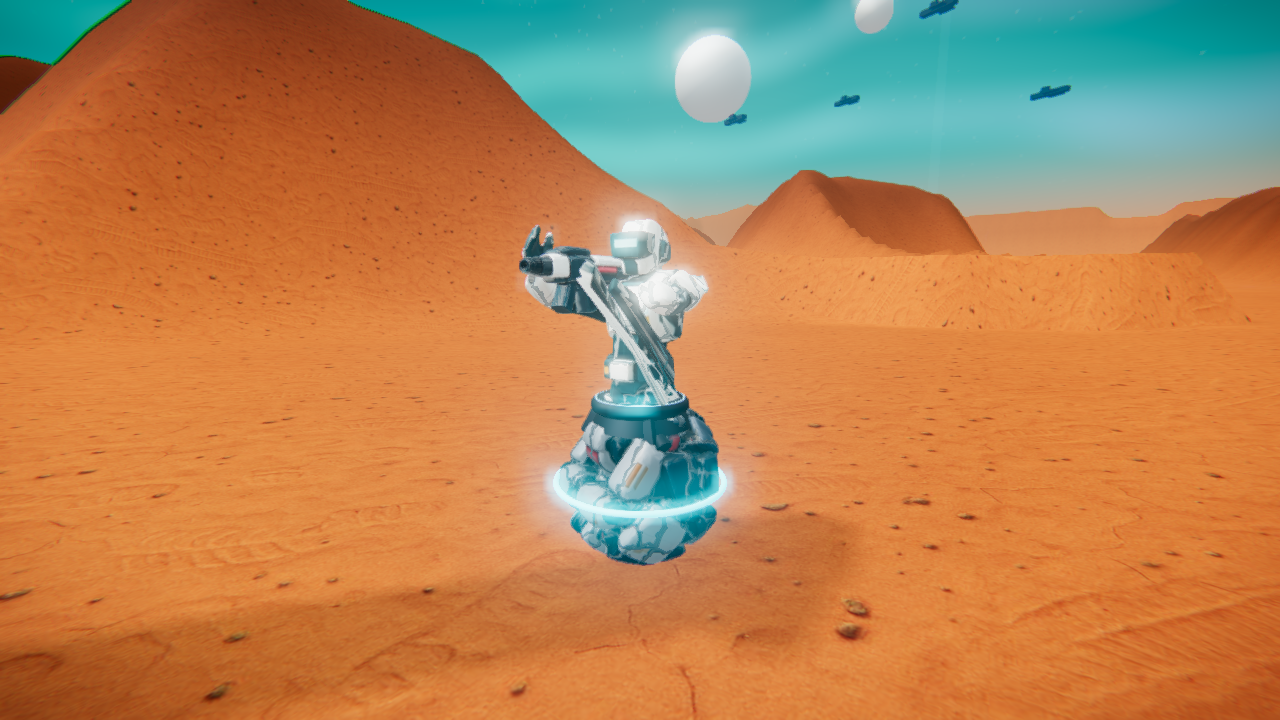
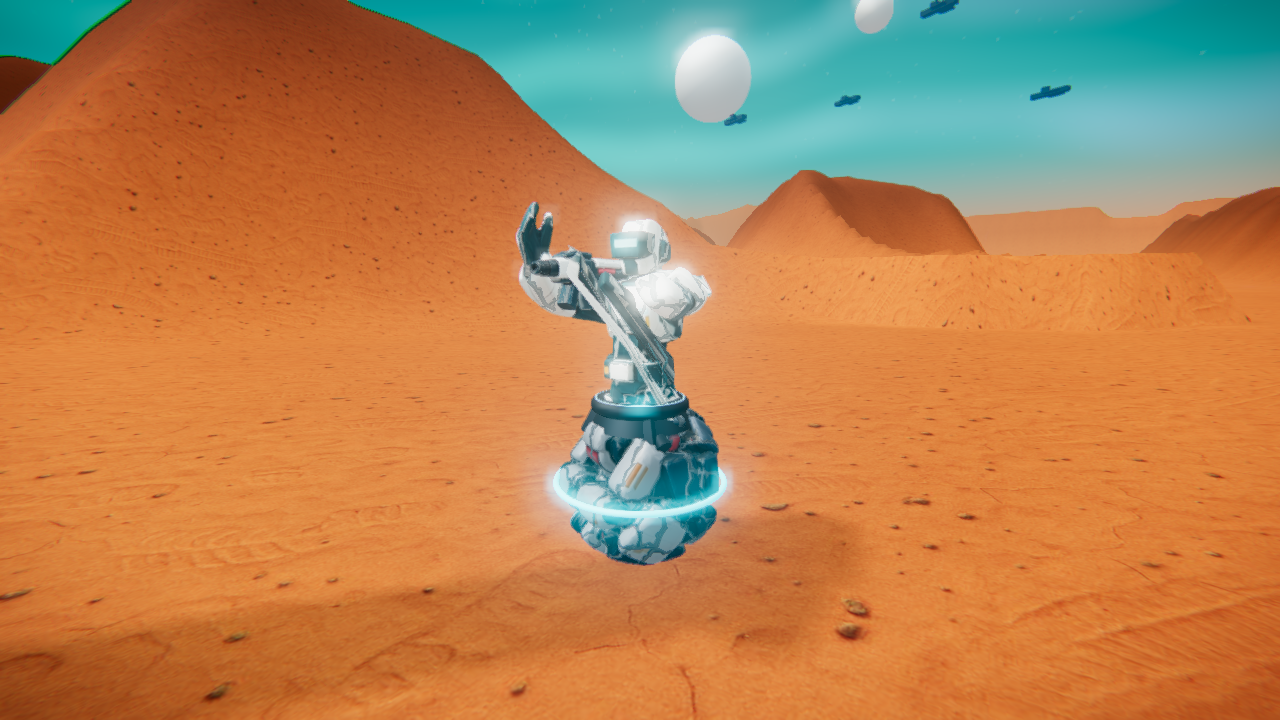
Critic round 2: softer curled aurora, Lantern light floor and plaza dressing, denser tower windows, terrain crevice shading and macro variation; character torso 1.3x, thicker arms, pistol-grip hand placement, squash in animator, dimmer emissives

Changed region(s): [[0.4062, 0.275, 0.5625, 0.55], [0.5, 0.6722, 0.5625, 0.7333], [0.4375, 0.55, 0.5, 0.5806]]

diff --git a/src/models/glbSoldier.js b/src/models/glbSoldier.js
@@ -92,9 +92,9 @@ function normaliseWeapon(geo, opts) {
   geo.computeVertexNormals(); geo.computeBoundingBox(); geo.computeBoundingSphere();
   // grips: lowest points of the mesh in two z-windows (pistol grip behind the magazine, foregrip under the handguard)
   const pos2 = geo.attributes.position; let gR = null, gL = null;
-  for (let i = 0; i < pos2.count; i++) { const z = pos2.getZ(i), y = pos2.getY(i), x = pos2.getX(i); if (Math.abs(x) > 0.05) continue; if (z > -0.12 && z < 0.12 && (!gR || y < gR.y)) gR = new THREE.Vector3(x, y, z); if (z > 0.22 && z < 0.5 && (!gL || y < gL.y)) gL = new THREE.Vector3(x, y, z); }
-  const gripR = gR ? new THREE.Vector3(0.02, gR.y + 0.07, gR.z + 0.01) : new THREE.Vector3(0.02, -0.02, 0.04);
-  const gripL = gL ? new THREE.Vector3(-0.02, gL.y + 0.05, gL.z) : new THREE.Vector3(-0.02, 0.0, 0.34);
+  for (let i = 0; i < pos2.count; i++) { const z = pos2.getZ(i), y = pos2.getY(i), x = pos2.getX(i); if (Math.abs(x) > 0.05) continue; if (z > -0.2 && z < 0.02 && (!gR || y < gR.y)) gR = new THREE.Vector3(x, y, z); if (z > 0.24 && z < 0.5 && (!gL || y < gL.y)) gL = new THREE.Vector3(x, y, z); }
+  const gripR = new THREE.Vector3(0.02, gR ? THREE.MathUtils.clamp(gR.y + 0.08, -0.13, -0.01) : -0.02, gR ? THREE.MathUtils.clamp(gR.z + 0.02, -0.08, 0.06) : 0.04);
+  const gripL = new THREE.Vector3(-0.02, gL ? THREE.MathUtils.clamp(gL.y + 0.05, -0.06, 0.05) : 0.0, gL ? gL.z : 0.34);
   return { geometry: geo, length: b3.max.z - b3.min.z, muzzle: new THREE.Vector3(0, 0.055, geo.boundingBox.max.z - 0.01), gripR, gripL };
 }
 
@@ -316,7 +316,7 @@ export function attachBall(model, radius = 0.44) {
   else { mesh = new THREE.Mesh(new THREE.SphereGeometry(radius, 24, 16), new THREE.MeshStandardMaterial({ color: '#c8c8cc', roughness: 0.45, metalness: 0.35 })); }
   mesh.castShadow = true; g.add(mesh);
   // neon equator ring so the roll reads clearly
-  const ring = new THREE.Mesh(new THREE.TorusGeometry(radius * 0.98, 0.018, 8, 48), new THREE.MeshStandardMaterial({ color: '#00e5ff', emissive: '#00e5ff', emissiveIntensity: 0.8, roughness: 0.3 }));
+  const ring = new THREE.Mesh(new THREE.TorusGeometry(radius * 0.98, 0.018, 8, 48), new THREE.MeshStandardMaterial({ color: '#00e5ff', emissive: '#00e5ff', emissiveIntensity: 0.5, roughness: 0.3 }));
   ring.rotation.x = Math.PI / 2; g.add(ring);
 
   // waist collar at the top of the ball (does not roll): matte ring, four short struts, thin emissive lip, two vents
@@ -325,7 +325,7 @@ export function attachBall(model, radius = 0.44) {
   const ringM = new THREE.Mesh(new THREE.TorusGeometry(radius * 0.48, 0.045, 10, 40), matte); ringM.rotation.x = Math.PI / 2; ringM.position.y = radius * 0.9; collar.add(ringM);
   const cup = new THREE.Mesh(new THREE.CylinderGeometry(radius * 0.46, radius * 0.6, 0.14, 24, 1, true), new THREE.MeshStandardMaterial({ color: '#2c3038', roughness: 0.55, metalness: 0.7, side: THREE.DoubleSide })); cup.position.y = radius * 0.8; collar.add(cup);
   for (let i = 0; i < 4; i++) { const a = (i / 4) * Math.PI * 2 + Math.PI / 4; const strut = new THREE.Mesh(new THREE.BoxGeometry(0.06, 0.16, 0.06), matte); strut.position.set(Math.cos(a) * radius * 0.54, radius * 0.72, Math.sin(a) * radius * 0.54); strut.rotation.z = Math.cos(a) * 0.5; strut.rotation.x = -Math.sin(a) * 0.5; collar.add(strut); }
-  const lip = new THREE.Mesh(new THREE.TorusGeometry(radius * 0.5, 0.014, 8, 40), new THREE.MeshStandardMaterial({ color: '#00e5ff', emissive: '#00e5ff', emissiveIntensity: 1.0 })); lip.rotation.x = Math.PI / 2; lip.position.y = radius * 0.96; collar.add(lip);
+  const lip = new THREE.Mesh(new THREE.TorusGeometry(radius * 0.5, 0.014, 8, 40), new THREE.MeshStandardMaterial({ color: '#00e5ff', emissive: '#00e5ff', emissiveIntensity: 0.6 })); lip.rotation.x = Math.PI / 2; lip.position.y = radius * 0.96; collar.add(lip);
   for (let i = 0; i < 2; i++) { const a = i * Math.PI + 0.6; const vent = new THREE.Mesh(new THREE.CylinderGeometry(0.035, 0.045, 0.07, 8), matte); vent.position.set(Math.cos(a) * radius * 0.62, radius * 0.6, Math.sin(a) * radius * 0.62); vent.rotation.z = Math.cos(a) * 1.0; vent.rotation.x = -Math.sin(a) * 1.0; collar.add(vent); }
   const roll = new THREE.Group(); roll.add(g); roll.position.y = radius;
   const holder = new THREE.Group(); holder.name = 'ballRig'; holder.add(roll); collar.position.y = radius; holder.add(collar);
@@ -347,6 +347,7 @@ export function applyCustomBody(model, custom, opts = {}) {
     const r = opts.ballRadius || 0.58; const cut = custom.waistCut ?? (custom.fit.crotchY + 0.16); model.ballRootY = (custom.fit.crotchY + 0.04) + (r * 2 - 0.05 - cut); model.bones.root.position.y = model.ballRootY; model.root.updateWorldMatrix(true, true);
     attachBall(model, r);
     if (opts.torsoScale && opts.torsoScale !== 1) { const k = opts.torsoScale; model.bones.root.scale.setScalar(k); model.torsoScale = k; }
+    for (const n of ['upperArmL', 'upperArmR']) model.bones[n].scale.set(1.28, 1, 1.28); // thicker limbs (children inherit)
   } else skinned = skinToRig(custom, model.bones, model.root);
   if (opts.neon || opts.tint) { const key = 'mat:' + (opts.neon || '') + ':' + (opts.tint || ''); custom._mats = custom._mats || {}; if (!custom._mats[key]) { const m = custom.material.clone(); if (opts.tint) m.color.set(opts.tint); if (opts.neon) makeNeonMask(m, opts.neon); custom._mats[key] = m; } skinned.material = custom._mats[key]; }
   for (const m of model.meshes) m.visible = false;
@@ -379,7 +380,7 @@ export function makeNeonMask(material, color) {
   }
   ctx.putImageData(id, 0, 0);
   const em = new THREE.CanvasTexture(cv); em.colorSpace = THREE.SRGBColorSpace; em.flipY = tex.flipY; em.wrapS = tex.wrapS; em.wrapT = tex.wrapT;
-  material.emissiveMap = em; material.emissive = new THREE.Color('#ffffff'); material.emissiveIntensity = 0.9; material.needsUpdate = true;
+  material.emissiveMap = em; material.emissive = new THREE.Color('#ffffff'); material.emissiveIntensity = 0.7; material.needsUpdate = true;
 }
 
 /** Roll a ball-mounted body: spin the sphere with ground velocity, squash it on landing. */
@@ -391,6 +392,6 @@ export function rollBall(model, vx, vz, dt, land = 0, rootYaw = 0, crouch = 0) {
     const c = Math.cos(-rootYaw), s = Math.sin(-rootYaw); const lx = ax * c + az * s, lz = -ax * s + az * c; // into root-local space
     _axis.set(lx, 0, lz).normalize(); _q.setFromAxisAngle(_axis, sp * dt / model.ballRadius); model.ball.quaternion.premultiply(_q);
   }
-  const sq = land * 0.14 + crouch * 0.12; model.ball.scale.set(1 + sq * 0.55, 1 - sq, 1 + sq * 0.55); if (model.ballRig) model.ballRig.position.y = -sq * model.ballRadius * 0.9;
+  void land; void crouch;
 }
 const _axis = new THREE.Vector3(), _q = new THREE.Quaternion();

diff --git a/src/entities/animator.js b/src/entities/animator.js
@@ -222,7 +222,7 @@ export class CharacterAnimator {
     const sway = Math.sin(this.breath * 0.6) * 0.012 * (1 - this.speed); // idle weight shift
     const fz = -this.mdz; // body-space forward is -z
     const ballLean = this.model?.ballRadius ? 2.2 : 1;
-    const fwdLean = -this.speed * (s.sprint > 0.8 ? 0.10 : 0.05) * ballLean * Math.max(0, fz) + this.speed * 0.05 * Math.max(0, -fz) - this.accelLean * 0.14 + this.land * 0.22;
+    const fwdLean = -this.speed * (s.sprint > 0.8 ? 0.14 : 0.09) * ballLean * Math.max(0, fz) + this.speed * 0.05 * Math.max(0, -fz) - this.accelLean * 0.14 + this.land * 0.22;
     set('spine', c.spine[0] + this.hit * 0.25 + breathe + fwdLean, c.spine[1] + sw * amp * 0.06 + this.hit * this.hitDir * 0.2 + this.mdx * this.speed * 0.2, c.spine[2] + this.lean * 0.5 + this.strafe * amp * 0.05 - this.mdx * this.speed * 0.09 - this.turnLean * 0.16 * this.speed + sway);
     set('chest', c.chest[0] - this.aimPitch * 0.55 * (s.aim > 0 || s.cover ? 1 : 0.5) + this.recoil * 0.4 + breathe, c.chest[1] - sw * amp * 0.08, c.chest[2] + this.lean * 0.5);
     set('neck', c.neck[0], c.neck[1], c.neck[2]);
@@ -258,6 +258,7 @@ export class CharacterAnimator {
       B.thighR.rotation.x -= kR * 0.5; B.shinR.rotation.x += kR; B.footR.rotation.x -= kR * 0.5;
     } else { this.plantY = damp(this.plantY ?? 0, 0, 12, dt); this.plantL = damp(this.plantL ?? 0, 0, 12, dt); this.plantR = damp(this.plantR ?? 0, 0, 12, dt); }
     B.root.position.y = (this.model?.ballRadius ? this.model.ballRootY : 0.98) + this.rootY + bob + (this.model?.ballRadius ? 0 : (this.plantY || 0));
+    if (this.model?.ball) { const cr = s.crouch > 0.5 ? 1 : 0; this.ballSquash = damp(this.ballSquash ?? 0, cr * 0.22 + (this.land || 0) * 0.14, 10, dt); const sq = this.ballSquash; this.model.ball.scale.set(1 + sq * 0.5, 1 - sq, 1 + sq * 0.5); if (this.model.ballRig) this.model.ballRig.position.y = -sq * this.model.ballRadius * 0.95; }
     if (s.roll != null) { const k = Math.min(1, s.roll); B.root.rotation.set(-k * Math.PI * 2, 0, 0); B.root.scale.setScalar(1); }
     else if (s.transform != null) {
       // transformer tuck: the frame folds into a compact block, spins once, and unfolds

diff --git a/src/models/soldier.js b/src/models/soldier.js
@@ -255,7 +255,7 @@ export function buildSoldier(styleName = 'vanguard', opts = {}) {
   // Use rest world matrices computed with root at origin: ensure bones' matrixWorld are rest
   // custom GLB bodies: vanguard (player + squad) and the sentinel trooper; procedural parts stay for gibs/ragdoll fallbacks
   const customKey = opts.custom !== undefined ? opts.custom : (styleName === 'vanguard' ? 'vanguard' : null);
-  if (customKey && CUSTOM.body[customKey]) { try { applyCustomBody(model, CUSTOM.body[customKey], { neon: customKey === 'vanguard' ? style.neon : '#ff3b1f', tint: customKey === 'vanguard' ? null : '#5e6068', noLegs: customKey === 'vanguard', ballRadius: 0.5, torsoScale: 1.16 }); } catch (e) { console.warn('[glb] custom body failed', e); } }
+  if (customKey && CUSTOM.body[customKey]) { try { applyCustomBody(model, CUSTOM.body[customKey], { neon: customKey === 'vanguard' ? style.neon : '#ff3b1f', tint: customKey === 'vanguard' ? null : '#5e6068', noLegs: customKey === 'vanguard', ballRadius: 0.5, torsoScale: 1.3 }); } catch (e) { console.warn('[glb] custom body failed', e); } }
   return model;
 }
 

diff --git a/src/render/sky.js b/src/render/sky.js
@@ -43,11 +43,12 @@ export function createSky(opts = {}) {
           for (int i = 0; i < 3; i++) {
             float fi = float(i);
             float band = sin(d.x * (3.0 + fi) + uTime * (0.15 + fi * 0.05) + noise(d.xz * 4.0 + uTime * 0.05) * 3.0) * 0.5 + 0.5;
-            float y0 = 0.18 + fi * 0.16 + band * 0.1;
-            a += smoothstep(0.06, 0.0, abs(h - y0)) * (0.5 + 0.5 * noise(vec2(d.x * 8.0 + fi * 10.0, uTime * 0.2)));
+            float y0 = 0.18 + fi * 0.16 + band * 0.1 + (noise(vec2(d.x * 2.5 + fi * 7.0, d.z * 2.5)) - 0.5) * 0.12;
+            float w = 0.05 + 0.06 * noise(vec2(d.x * 6.0 + fi, uTime * 0.1));
+            a += smoothstep(w, 0.0, abs(h - y0)) * (0.35 + 0.65 * noise(vec2(d.x * 8.0 + fi * 10.0, uTime * 0.2))) * (0.6 + 0.4 * noise(vec2(d.x * 20.0, d.z * 20.0 + fi)));
           }
           vec3 ac = mix(vec3(0.0, 0.9, 0.7), vec3(0.55, 0.15, 1.0), sin(d.x * 2.0 + uTime * 0.1) * 0.5 + 0.5);
-          col += ac * a * 0.22 * uAurora;
+          col += ac * a * 0.13 * uAurora;
         }
         gl_FragColor = vec4(col, 1.0);
       }`,

diff --git a/src/world/terrain.js b/src/world/terrain.js
@@ -181,6 +181,9 @@ export class Terrain {
       c.setRGB(P.floor[0] + nz * P.floorNoise[0], P.floor[1] + nz * P.floorNoise[1], P.floor[2] + nz * P.floorNoise[2]);
       const rock = new THREE.Color(P.rock[0] + nz * P.rockNoise[0], P.rock[1] + nz * P.rockNoise[1], P.rock[2] + nz * P.rockNoise[2]);
       c.lerp(rock, rockT);
+      // macro variation (large patches) and darker crevices on steep faces so rock reads as strata, not clay
+      const macro = fbm2(x * 0.012 + 40, z * 0.012 + 17, 2) - 0.5; c.multiplyScalar(1 + macro * 0.22);
+      const nrmY = this.getNormal(x, z).y; const steep = 1 - THREE.MathUtils.smoothstep(nrmY, 0.55, 0.9); c.multiplyScalar(1 - steep * 0.35 * (0.5 + rockT * 0.5));
       // slight brighter dust on top ridges
       if (h > 20) c.lerp(new THREE.Color(P.ridge[0], P.ridge[1], P.ridge[2]), smoothstep(20, 32, h) * 0.5);
       colors[k * 3] = c.r; colors[k * 3 + 1] = c.g; colors[k * 3 + 2] = c.b;

diff --git a/src/world/level_lantern.js b/src/world/level_lantern.js
@@ -144,6 +144,7 @@ export function buildLantern(world) {
   // --- transit plaza (drop zone) ---
   buildTransitPlaza(world, at(L.dropZone));
   transitShelter(world, M(214, 66).setY(ground(M(214, 66).x, M(214, 66).z)), Math.PI);
+  for (let i = 0; i < 8; i++) { const a = (i / 8) * Math.PI * 2; const px = L.dropZone.pos.x + Math.cos(a) * 30, pz = L.dropZone.pos.z + Math.sin(a) * 30; if (world.terrain.floorDistance(px, pz) < 4) { if (i % 2 === 0) streetLamp(world, new THREE.Vector3(px, ground(px, pz), pz), { color: pick(NEON), light: i % 4 === 0 }); else { const [text, sub] = pick(SLOGANS); info.posters.push(holoBillboard(world, new THREE.Vector3(px, ground(px, pz), pz), -a + Math.PI / 2, { text, sub, color: pick(NEON) }).poster); } } }
   transitShelter(world, M(186, 66).setY(ground(M(186, 66).x, M(186, 66).z)), Math.PI);
 
   // --- the three routes ---

diff --git a/src/world/maps/lantern.js b/src/world/maps/lantern.js
@@ -107,9 +107,9 @@ export const LANTERN = {
   },
   lighting: {
     background: '#06050e', fog: '#150c24', fogDensity: 0.0030,
-    hemiSky: '#5a6cc0', hemiGround: '#3a1a48', hemiIntensity: 1.35,
-    sun: '#b4c4ff', sunIntensity: 2.0, sunOffset: [60, 120, -70],
-    ambient: '#36395f', ambientIntensity: 1.1, envIntensity: 0.18,
+    hemiSky: '#6a7cd0', hemiGround: '#4a2458', hemiIntensity: 1.7,
+    sun: '#c0ccff', sunIntensity: 2.4, sunOffset: [60, 120, -70],
+    ambient: '#3e4270', ambientIntensity: 1.4, envIntensity: 0.22,
   },
   sky: { top: '#020308', mid: '#0b0c1c', horizon: '#3a1650', aurora: 0, space: 0.35, sunDir: [0.3, 0.12, -0.9], sunColor: '#5a4a8a' },
   celestials: 'darkmoon',

diff --git a/src/models/city.js b/src/models/city.js
@@ -81,7 +81,7 @@ export function buildTower(world, pos, yaw = 0, opts = {}) {
 
   // shared emissive window panels
   const wMat = windowMat(color);
-  const winCount = randInt(3, 5);
+  const winCount = Math.round((randInt(3, 5)) * 2.2);
   for (let i = 0; i < winCount; i++) {
     const [ww, wh] = pick(WINDOW_SIZES);
     const win = mesh(planeGeo(ww, wh), wMat, false);
